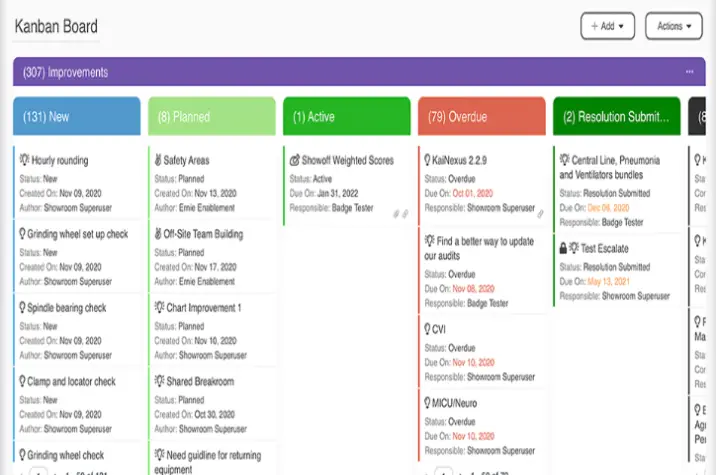
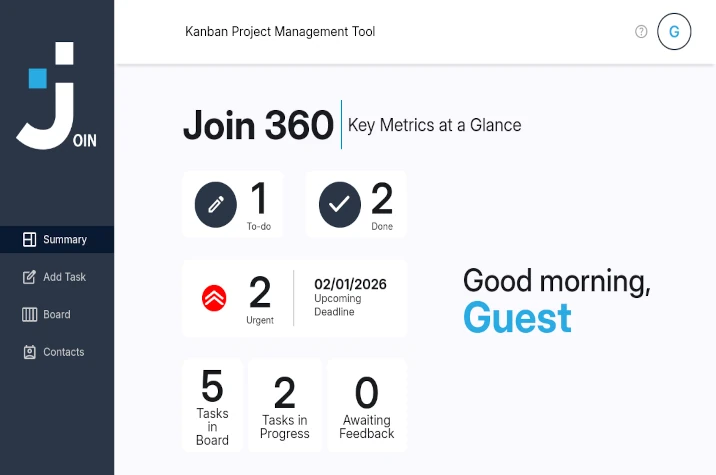
feat: add imprint section with translations and update footer links

diff --git a/src/app/imprint/imprint.html b/src/app/imprint/imprint.html
@@ -1,39 +1,39 @@
 
 <div id="imprint_div">
-    <h1>Legal Notice</h1>
+    <h1>{{'imprint.title' | translate}}</h1>
     <div id="small_text">
-        <h3>Imprint</h3>
+        <h3>{{'imprint.imprint' | translate}}</h3>
         <p>Malte Schütte</p>
         <p>Werderstr. 43, 15569 Woltersdorf, Germany</p>
 
-        <h3>Exploring the Board</h3>
+        <h3>{{'imprint.exploring' | translate}}</h3>
         <p>[email redacted]</p>
 
-        <h3>Acceptance of terms</h3> 
-            <p>By accessing and using Portfolio (Product), you acknowledge and agree to the following terms and conditions, and any policies, guidelines, or amendments thereto that may be presented to you from time to time. 
+        <h3>{{'imprint.acceptance' | translate}}</h3>
+            <p>By accessing and using Portfolio (Product), you acknowledge and agree to the following terms and conditions, and any policies, guidelines, or amendments thereto that may be presented to you from time to time.
             We, the listed students, may update or change the terms and conditions from time to time without notice.</p>
 
 
-        <h3>Scope and ownership of the product</h3>
-            <p>Portfolio has been developed as part of a student group project in a web development bootcamp at the Developer Akademie GmbH. It has an educational purpose and is not intended for extensive personal & business usage. 
-            As such, we cannot guarantee consistent availability, reliability, accuracy, or any other aspect of quality regarding this Product. 
+        <h3>{{'imprint.scope' | translate}}</h3>
+            <p>Portfolio has been developed as part of a student group project in a web development bootcamp at the Developer Akademie GmbH. It has an educational purpose and is not intended for extensive personal & business usage.
+            As such, we cannot guarantee consistent availability, reliability, accuracy, or any other aspect of quality regarding this Product.
             <br><br>
             The design of Portfolio is owned by the Developer Akademie GmbH. Unauthorized use, reproduction, modification, distribution, or replication of the design is strictly prohibited.</p>
 
-        <h3>Proprietary rights</h3>
+        <h3>{{'imprint.proprietary' | translate}}</h3>
             <p>Aside from the design owned by Developer Akademie GmbH, we, the listed students, retain all proprietary rights in Portfolio, including any associated copyrighted material, trademarks, and other proprietary information.</p>
 
-        <h3>Use of the product</h3>
+        <h3>{{'imprint.use' | translate}}</h3>
             <p>Portfolio is intended to be used for lawful purposes only, in accordance with all applicable laws and regulations. Any use of Portfolio for illegal activities, or to harass, harm, threaten, or intimidate another person, is strictly prohibited. You are solely responsible for your interactions with other users of Portfolio.</p>
 
-        <h3>Disclaimer of warranties and limitation of liability</h3>
-            <p>Portfolio is provided "as is" without warranty of any kind, whether express or implied, including but not limited to the implied warranties of merchantability, fitness for a particular purpose, and non-infringement. 
-            In no event will we, the listed students, or the Developer Akademie, be liable for any direct, indirect, incidental, special, consequential or exemplary damages, including but not limited to, damages for loss of profits, goodwill, use, data, or other intangible losses, even if we have been advised of the possibility of such damages, 
+        <h3>{{'imprint.disclaimer' | translate}}</h3>
+            <p>Portfolio is provided "as is" without warranty of any kind, whether express or implied, including but not limited to the implied warranties of merchantability, fitness for a particular purpose, and non-infringement.
+            In no event will we, the listed students, or the Developer Akademie, be liable for any direct, indirect, incidental, special, consequential or exemplary damages, including but not limited to, damages for loss of profits, goodwill, use, data, or other intangible losses, even if we have been advised of the possibility of such damages,
             arising out of or in connection with the use or performance of Portfolio.</p>
 
 
-        <h3>Indemnity</h3>
-            <p>You agree to indemnify, defend and hold harmless us, the listed students, the Developer Akademie, and our affiliates, partners, officers, directors, agents, and employees, from and against any claim, demand, loss, damage, cost, or liability (including reasonable legal fees) arising out of or relating to your use of Portfolio 
+        <h3>{{'imprint.indemnity' | translate}}</h3>
+            <p>You agree to indemnify, defend and hold harmless us, the listed students, the Developer Akademie, and our affiliates, partners, officers, directors, agents, and employees, from and against any claim, demand, loss, damage, cost, or liability (including reasonable legal fees) arising out of or relating to your use of Portfolio
             and/or your breach of this Legal Notice.
             <br><br>
             For any questions or notices, please contact us at [Contact Email].

diff --git a/src/app/main-page/contact/contact.ts b/src/app/main-page/contact/contact.ts
@@ -39,7 +39,7 @@ export class Contact {
         .subscribe({
           next: (response) => {
             ngForm.resetForm();
-            this.messageSent = true;
+            this.showSuccessMessage();
           },
           error: (error) => {
             console.error(error);
@@ -48,7 +48,12 @@ export class Contact {
         });
     } else if (ngForm.submitted && ngForm.form.valid && this.mailTest) {
       ngForm.resetForm();
-      this.messageSent = true;
+      this.showSuccessMessage();
     }
+  }
+
+  showSuccessMessage() {
+    this.messageSent = true;
+    setTimeout(() => this.messageSent = false, 5000);
   }
 }

diff --git a/src/app/shared/components/footer/footer.html b/src/app/shared/components/footer/footer.html
@@ -7,10 +7,10 @@
         </div>
         <p>© Malte Schütte 2025</p>
         <div id="links">
-            <a href="https://github.com/MalteSchuette">Github</a>
-            <a href="https://www.linkedin.com/in/malte-sch%C3%BCtte/">LinkedIn</a>
-             <a href="mailto:[email redacted]">Email</a>
-            <a href="imprint">Legal Notice</a>
+            <a href="https://github.com/MalteSchuette" target="_blank">Github</a>
+            <a href="https://www.linkedin.com/in/malte-sch%C3%BCtte/" target="_blank">LinkedIn</a>
+             <a href="mailto:[email redacted]" target="_blank">Email</a>
+            <a [routerLink]="['/imprint']">Legal Notice</a>
         </div>
     </div>
 </footer>

diff --git a/src/app/main-page/landing-page/landing-page.scss b/src/app/main-page/landing-page/landing-page.scss
@@ -1,3 +1,9 @@
+@property --angle {
+    syntax: '<angle>';
+    initial-value: 0deg;
+    inherits: false;
+}
+
 #background_div {
     width: 100%;
     background: linear-gradient(to top right, #1C1C1C 40%, #08463B);

diff --git a/src/app/main-page/featured-projects/featured-projects.html b/src/app/main-page/featured-projects/featured-projects.html
@@ -58,8 +58,8 @@
                                     </div>
                                 </div>
                                 <div id="links_button">
-                                    <a href="https://github.com/MalteSchuette" target="_blank"><button class="links_button">Github <img src="./assets/icons/arrow_outward.svg" alt=""></button></a>
-                                    <a href="" target="_blank"><button class="links_button">Live Test <img src="./assets/icons/arrow_outward.svg" alt=""></button></a>
+                                    <a href="https://github.com/TimDaubner/Join" target="_blank"><button class="links_button">Github <img src="./assets/icons/arrow_outward.svg" alt=""></button></a>
+                                    <a href="https://join.malte-schuette.eu/login" target="_blank"><button class="links_button">Live Test <img src="./assets/icons/arrow_outward.svg" alt=""></button></a>
                                 </div>
                             </div>
                             <div id="overlay_img">

diff --git a/src/app/imprint/imprint.ts b/src/app/imprint/imprint.ts
@@ -1,8 +1,9 @@
 import { Component } from '@angular/core';
+import { TranslatePipe } from '@ngx-translate/core';
 
 @Component({
   selector: 'app-imprint',
-  imports: [],
+  imports: [TranslatePipe],
   templateUrl: './imprint.html',
   styleUrl: './imprint.scss'
 })

diff --git a/src/app/shared/components/footer/footer.ts b/src/app/shared/components/footer/footer.ts
@@ -1,8 +1,9 @@
 import { Component } from '@angular/core';
+import { RouterLink } from '@angular/router';
 
 @Component({
   selector: 'app-footer',
-  imports: [],
+  imports: [RouterLink],
   templateUrl: './footer.html',
   styleUrl: './footer.scss'
 })

diff --git a/src/app/main-page/contact/contact.html b/src/app/main-page/contact/contact.html
@@ -29,7 +29,7 @@
                 <span class="error_msg">{{'form.error_message' | translate}}</span>
             }
             <div id="privacy_checkbox">
-                <input #privacy="ngModel" [(ngModel)]="contactData.privacy" type="checkbox" id="privacy" name="privacy" required> <p>{{'form.form_checkbox' | translate}}  <a id="pp_link" href=""> {{'form.form_pp' | translate}} </a> {{'form.form_confirm' | translate}}</p>
+                <input #privacy="ngModel" [(ngModel)]="contactData.privacy" type="checkbox" id="privacy" name="privacy" required> <p>{{'form.form_checkbox' | translate}}  <a id="pp_link" href="/imprint" target="_blank"> {{'form.form_pp' | translate}} </a> {{'form.form_confirm' | translate}}</p>
             </div>
             @if (!privacy.valid && privacy.touched) {
                 <span class="error_msg">{{'form.error_privacy' | translate}}</span>